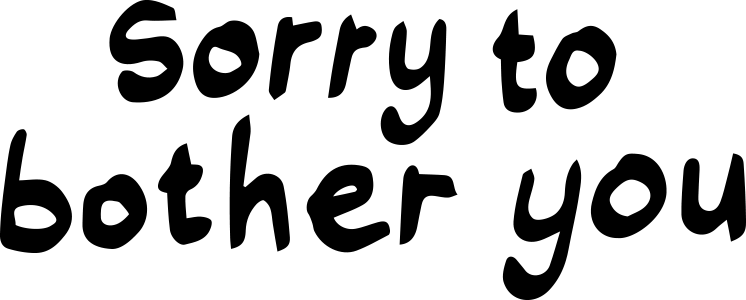
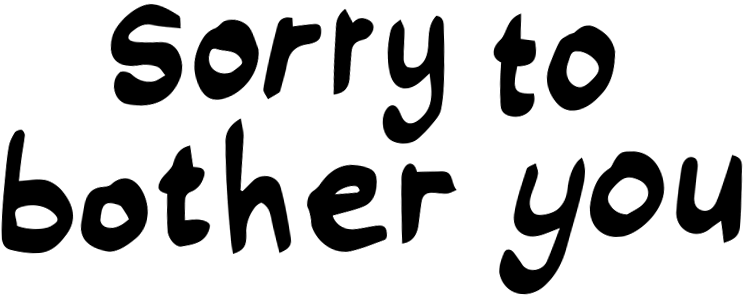
Fixed animation on front screen

diff --git a/src/states/MenuState.js b/src/states/MenuState.js
@@ -49,12 +49,12 @@ class MenuState extends Phaser.State {
     }
 
     wiggleLogo() {
-      if(this.tick < 10) {
+      if(this.tick < 12) {
         this.tick++;
         this.menuTitle1.alpha = 1;
         this.menuTitle2.alpha = 0;
       }
-      else if(this.tick >= 10 && this.tick < 20) {
+      else if(this.tick >= 12 && this.tick < 24) {
         this.tick++;
         this.menuTitle1.alpha = 0;
         this.menuTitle2.alpha = 1;
